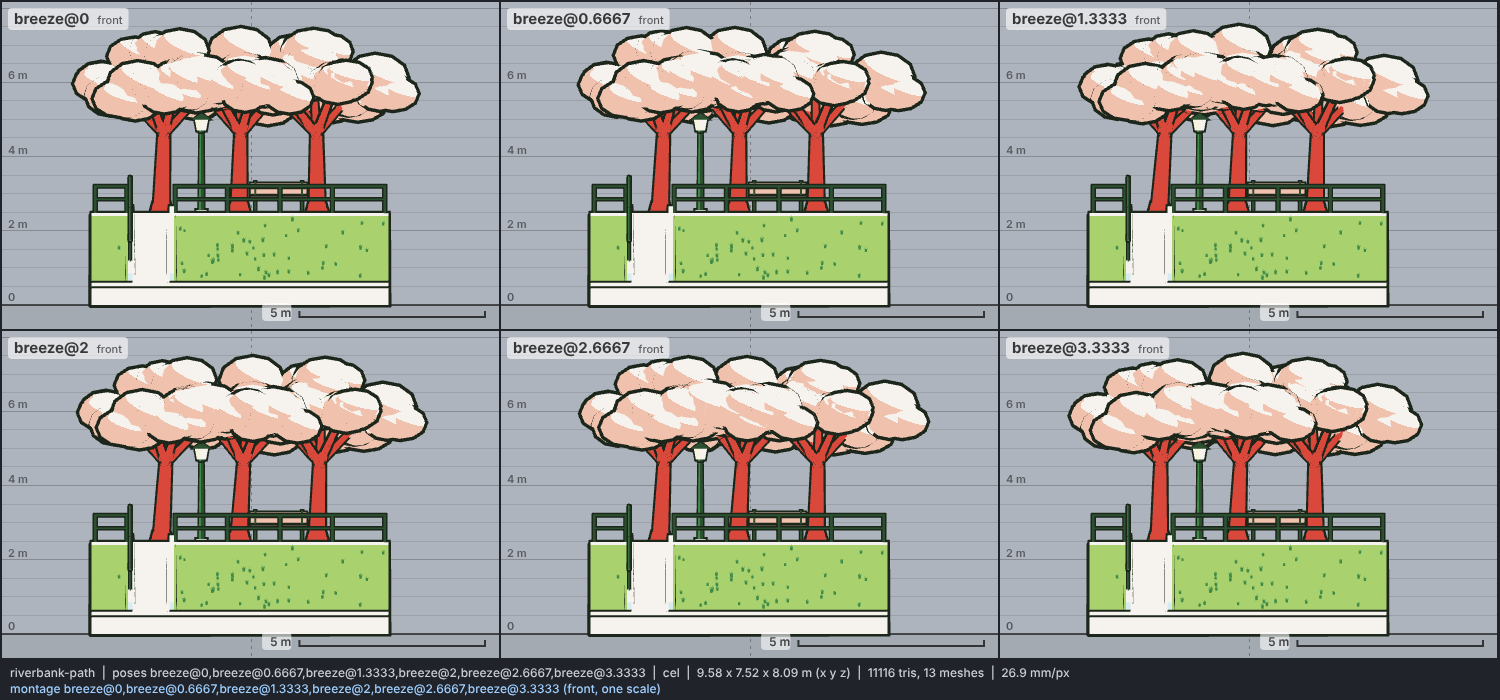
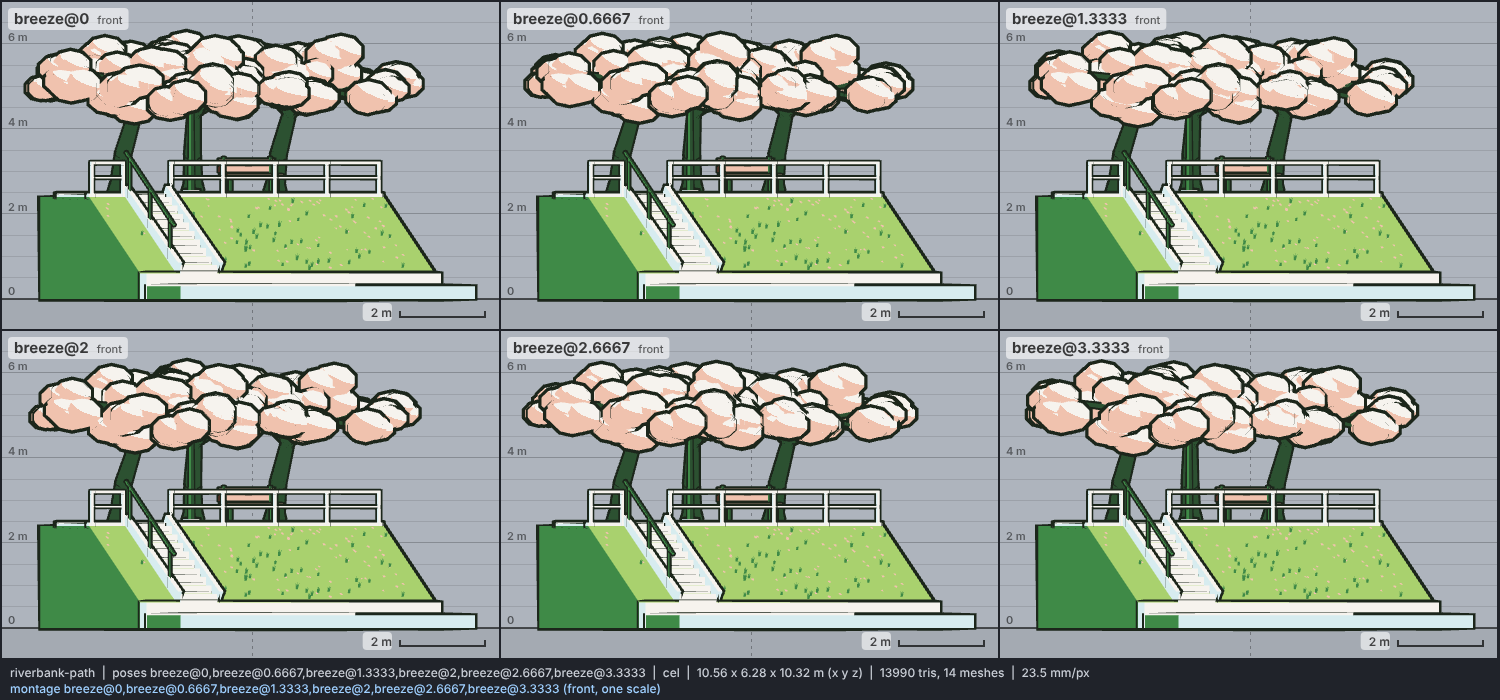
models: riverbank-path, dark bent trunks, low spreading canopy, set turned to the hero
Trunks and limbs are dark (hair) with a two-segment bend; railings go
white. Canopies are flattened domes of many small clusters with gaps,
forking at ~1.95 m, reaching toward the river with drooping tips. Petals
also on the slope and the water. The set is turned 30 deg (option turn)
so the hero camera faces the slope and river; the far wall is gone so
the river reads as a band of water. 14.0k triangles, top 6.23 m.

Claude-Session: https://claude.ai/code/session_01RarBCdt4E1fNHHaUKaW5GL

diff --git a/models/riverbank-path.js b/models/riverbank-path.js
@@ -1,52 +1,58 @@
 // riverbank-path.js - the anime riverside embankment (kawabata / dote): a raised gravel path on top of a grassy bank,
-// a row of cherry trees in bloom along it, a narrow concrete river channel at the foot. Clip: breeze.
-// Contract: harness/lab/README.md. Meters, +Y up, the river side faces +Z (the camera looks across the water, up the
-// slope), the path runs along X, its left is +X, stands on y = 0 (the river bed), centred on x = 0, z = 0 (bbox).
+// a row of cherry trees in bloom along it, a narrow concrete-walled river at the foot. Clip: breeze.
+// Contract: harness/lab/README.md. Meters, +Y up, stands on y = 0 (the river bed), centred on x = 0, z = 0 (bbox).
+// Authored with the river toward +Z and the path along X, then the whole set is turned { turn } deg (default 30) about
+// Y, so the river side faces az 30: the lab's hero camera (az 52) looks across the water and up the slope 22 deg off
+// square, as an establishing shot does, and three4 (az 38) nearly square; turn: 0 gives the plain axis-aligned set.
 //
 // Construction (every part is a three.js primitive transformed into place, merged per material into one indexed
-// soup, so the whole set is ~13 meshes; no hand-wound faces, so the winding is three.js's own):
-//   BANK     one extruded cross-section (river wall top -> slope -> flat crown -> back face) along the length: the
+// soup, so the whole set is 14 meshes; no hand-wound faces, so the winding is three.js's own):
+//   BANK     one extruded cross-section (toe wall top -> slope -> flat crown -> back face) along the length: the
 //            grassy slope is one plane at ~37 deg. Grass tufts (three-blade fans, darker green, no ink) dot the slope.
 //   PATH     a gravel slab 5 cm proud on the crown with pale stone kerbs on both edges and gravel specks (flat dots).
-//            A grass strip behind it holds the trees and the lamp.
-//   RIVER    a concrete revetment: the bank's toe wall and a low far wall, the water between them 30 cm below the
-//            wall tops, with flat pale ripple streaks running along the flow.
+//            A grass strip behind it holds the trees.
+//   RIVER    the bank's concrete toe wall, the water 30 cm below its top, running to the front edge of the set so a
+//            low camera sees the river as a band of water; pale ripple streaks and floating petals on it.
 //   STEPS    a concrete flight down the slope (9 risers of 20 cm, 27 cm treads) between two inked cheek walls, a gap
-//            in the railing at its head and a pipe handrail on its downstream cheek.
-//   RAILING  low guard railing along the slope edge: square posts every ~1.3 m, a top rail and a mid rail.
-//   LAMP     a park lamp on the strip behind the path: pole, crook arm, a hooded lamp; { night } lights it (practical
-//            yellow drawn below the light threshold, so it always reads lit) and lays a lamp pool on the gravel.
+//            in the railing at its head and a pipe handrail on one cheek.
+//   RAILING  low white guard railing along the slope edge: posts every ~1.3 m, a top rail and a mid rail.
+//   LAMP     a park lamp on the path's river edge, crook arm back over the gravel, a hooded lamp tucked under the
+//            blossom (blobs near it are dropped); { night } lights it (practical, drawn below the light threshold, so
+//            it always reads lit) and lays a lamp pool on the gravel.
 //   BENCH    slatted bench on the path's back edge facing the river, dark iron legs.
-//   TREES    stylised somei-yoshino: a short leaning trunk with a root flare, 5-6 limbs fanned out (biased toward the
-//            river, as bank cherries lean over the water) and a crown limb; each limb ends in a cluster of 3-5
-//            squashed blobs (merged spheres; the ink of each blob's rim draws the clumps), wide and umbrella-shaped.
-//            Fallen petals are scattered on the path and the slope (flat fans, no ink). A seeded hash (mulberry32),
-//            so every tree is the same for the same options.
+//   TREES    stylised somei-yoshino, wide, low and spreading: a dark bole bent in two segments leaning toward the
+//            water, forking at ~1.95 m; 6-7 primary limbs (longer on the river side, so the canopy reaches over the path
+//            and the top of the slope) that each split in two; a small cluster of 2-3 flattened blobs at every split tip,
+//            one at each limb's elbow and a low crown of five, so the canopy is a flattened dome (~6 m across, ~2 m
+//            deep) with gaps where the dark limbs show; river-side tips droop. The ink of each blob's rim draws the
+//            clumps. Fallen petals lie on the path, the strip, the slope and the water (flat fans, no ink). A seeded
+//            hash (mulberry32), so every tree is the same for the same options.
 //   BREEZE   pose("breeze@t"), 4 s loop. The wood and blossom soups are deformed in place (no skinning): each vertex
 //            moves by the tree's sway (weight ((y - base) / 4.5 m)^2, so the trunk foot stays planted) plus, for
-//            blossom, its cluster's own rigid bob (twice per loop, its own phase); branch tips sit inside their
-//            clusters, so nothing tears. All frequencies are whole cycles per loop, so t = 0 and t = 4 match.
-// Proportions (real size, base unit the bank height B = 2.4 m): length 8 m; river wall tops 0.6, water 0.3, channel
-// 1.4 wide; slope 2.4 deep for 1.8 rise; crown at 2.4 (= B), path 1.4 wide, grass strip 0.8; railing 0.8 tall
-// (1/3 B); lamp 2.9 m (its hood just under the blossom); bench seat 0.42; trees: trunk 2.2 m to the fork, canopy ~4.5 m
-// across, top ~5.1 m above the crown (2.1 B; the set's top 7.47 m), at the default 3 trees ~2.1 m apart (inset 0.8 m
-// from the ends) so the canopies meet into one pink band over the path.
-// Options: build(THREE, kit, colors, { length, trees, night, height }).
+//            blossom, its cluster's own rigid bob (twice per loop, its own phase); limb tips sit inside their
+//            clusters, so nothing tears. All frequencies are whole cycles per loop, so t = 0 and t = 4 match. The hull
+//            normals stay at rest (small amplitudes).
+// Proportions (real size, base unit the bank height B = 2.4 m): length 8 m; toe wall top 0.6, water 0.3, river 1.6
+// wide; slope 2.4 deep for 1.8 rise; crown at 2.4 (= B), path 1.4 wide, grass strip 0.8; railing 0.8 tall (1/3 B);
+// lamp 2.6 m; bench seat 0.42; trees: fork at 1.95 m, canopy ~6 m across, top ~3.8 m above the crown (1.6 B; the set's
+// top 6.23 m), at the default 3 trees ~2.1 m apart (inset 0.8 m from the ends) so the canopies meet into one band.
+// Options: build(THREE, kit, colors, { length, trees, night, turn, height }).
 //   length  path length in m (default 8): the bank, river, railing, petals stretch; lamp, bench, steps keep their size.
 //   trees   how many cherry trees, evenly spaced (default 3, 0 for a bare bank).
 //   night   true: the lamp is lit (practical), with a pool of lamp light on the path. Same script.
+//   turn    degrees the set is turned about Y (default 30, see above; 0 = river toward +Z).
 //   height  scales the whole set uniformly so its top (the highest blossom) is `height` (default meta.height).
 // Script: meadow (greens and a pale sky; no browns). Two-tone pairs (base / shade): grass line #a9d16e / iris #3f8a47
-// (tufts iris flat); gravel moon #f7f3e1 / sky #d7ecef (specks sky flat); kerbs, revetment and steps sclera #f6f3ee /
-// sky; water sky / iris (ripples sclera flat); blossom sclera / skin #f0c2ae at threshold 0.4, so the tops catch white
-// and the sides and undersides go sakura pink (fallen petals skin flat); trunks and limbs accent #d9483b flat (the
-// warmest dark tone on the script: a skin/accent trunk read as candy stripes beside the pink blossom); bench slats
-// skin / accent; iron (railing, lamp, bench legs, handrail) hair #2c5131 / iris; lamp glass sclera / moon by day,
-// practical #f2c94c flat at night. ink #1c261b.
+// (tufts iris flat); gravel moon #f7f3e1 / sky #d7ecef (specks sky flat); kerbs, toe wall, steps and railing sclera
+// #f6f3ee / sky; water sky / iris (ripples sclera flat); blossom sclera / skin #f0c2ae at threshold 0.4, so the tops
+// catch white and the sides and undersides go sakura pink (fallen petals skin flat); trunks and limbs hair #2c5131
+// flat, the script's darkest tone after ink, so the blossom pops against dark bark; bench slats skin / accent #d9483b;
+// iron (lamp, bench legs, handrail) hair / iris; lamp glass sclera / moon by day, practical #f2c94c flat at night.
+// ink #1c261b.
 
 export const meta = {
   name: "riverbank-path",
-  height: 7.47,
+  height: 6.23,
   script: "meadow",
   colors: {
     grass: "#a9d16e", grassShade: "#3f8a47",
@@ -58,8 +64,9 @@ export const meta = {
     ripple: "#f6f3ee",
     blossom: "#f6f3ee", blossomShade: "#f0c2ae",
     petal: "#f0c2ae",
-    bark: "#d9483b", barkShade: "#d9483b",
+    bark: "#2c5131", barkShade: "#2c5131",
     slat: "#f0c2ae", slatShade: "#d9483b",
+    rail: "#f6f3ee", railShade: "#d7ecef",
     iron: "#2c5131", ironShade: "#3f8a47",
     glass: "#f6f3ee", glassShade: "#f7f3e1",
     glow: "#f2c94c",
@@ -69,7 +76,7 @@ export const meta = {
 
 export function build(THREE, kit, colors = meta.colors, opts = {}) {
   const c = { ...meta.colors, ...colors };
-  const { length = 8, trees = 3, night = false } = opts;
+  const { length = 8, trees = 3, night = false, turn = 30 } = opts;
   const L = Math.max(2, length), NT = Math.max(0, Math.round(trees));
   const TAU = Math.PI * 2;
   const root = new THREE.Group();
@@ -77,6 +84,10 @@ export function build(THREE, kit, colors = meta.colors, opts = {}) {
   const body = new THREE.Group(); // centring offset and the uniform size scale live here
   body.name = "body";
   root.add(body);
+  const set = new THREE.Group(); // the set as authored (river toward +Z, length along X), turned toward the camera
+  set.name = "set";
+  set.rotation.y = (turn * Math.PI) / 180;
+  body.add(set);
   const joints = {};
 
   // ---------- seeded hash ----------
@@ -117,15 +128,15 @@ export function build(THREE, kit, colors = meta.colors, opts = {}) {
     add(key, g, M4().compose(V().addVectors(a, b).multiplyScalar(0.5), q, V(1, 1, 1)), tag);
   }
   // a flat horizontal fan / quad (no ink): decals on the ground
-  function flat(key, pts, y) {
+  function flat(key, pts, y) { // y: a height, or a function (x, z) -> height
     const s = S(key), base = s.pos.length / 3;
-    for (const [x, z] of pts) s.pos.push(x, y, z), s.nrm.push(0, 1, 0), s.tag.push(-1, -1);
+    for (const [x, z] of pts) s.pos.push(x, typeof y === "function" ? y(x, z) : y, z), s.nrm.push(0, 1, 0), s.tag.push(-1, -1);
     for (let i = 1; i + 1 < pts.length; i++) s.idx.push(base, base + i + 1, base + i); // counter-clockwise from above
   }
 
   // ---------- cross-section (z, y), before centring ----------
-  const WALL = 0.6, LIP = 0.45, WATER = 0.3, B = 2.4;
-  const zLipF = 2.6, zLipB = 2.35, zWallF = 0.9, zToe = 0.6, zCrest = -1.8, zPathF = -1.9, zPathB = -3.3, zBack = -4.1;
+  const WALL = 0.6, WATER = 0.3, B = 2.4;
+  const zRiverF = 2.5, zWallF = 0.9, zToe = 0.6, zCrest = -1.8, zPathF = -1.9, zPathB = -3.3, zBack = -4.1;
   const PATH_Y = B + 0.05;
   const x0 = -L / 2, x1 = L / 2;
   const stepX = Math.max(x0 + 1.0, -L * 0.3), stepW = 1.0, nStep = 9; // the flight down the slope
@@ -169,10 +180,9 @@ export function build(THREE, kit, colors = meta.colors, opts = {}) {
 
   // RIVER: toe wall, far lip, water, ripples
   box("stone", 0, WALL / 2, (zToe + zWallF) / 2, L, WALL, zWallF - zToe);
-  box("stone", 0, LIP / 2, (zLipB + zLipF) / 2, L, LIP, zLipF - zLipB);
-  box("water", 0, WATER / 2, (zWallF + zLipB) / 2, L, WATER, zLipB - zWallF);
+  box("water", 0, WATER / 2, (zWallF + zRiverF) / 2, L, WATER, zRiverF - zWallF);
   for (let i = 0, n = Math.round(L * 2.2); i < n; i++) {
-    const x = rr(x0 + 0.5, x1 - 0.9), z = rr(zWallF + 0.15, zLipB - 0.15), l = rr(0.35, 0.8), w = rr(0.025, 0.04);
+    const x = rr(x0 + 0.5, x1 - 0.9), z = rr(zWallF + 0.15, zRiverF - 0.15), l = rr(0.35, 0.8), w = rr(0.025, 0.04);
     flat("ripple", [[x, z - w], [x + l, z - w * 0.4], [x + l * 1.08, z], [x + l, z + w * 0.4], [x, z + w]], WATER + 0.003);
   }
 
@@ -208,20 +218,20 @@ export function build(THREE, kit, colors = meta.colors, opts = {}) {
     const runs = [[x0 + 0.1, gap0], [gap1, x1 - 0.1]].filter(([a, b]) => b - a > 0.3);
     for (const [a, b] of runs) {
       const n = Math.max(1, Math.round((b - a) / 1.3));
-      for (let i = 0; i <= n; i++) box("iron", a + ((b - a) * i) / n, B + 0.4, zr, 0.07, 0.8, 0.07);
-      box("iron", (a + b) / 2, B + 0.8, zr, b - a + 0.06, 0.06, 0.08);
-      box("iron", (a + b) / 2, B + 0.45, zr, b - a, 0.04, 0.04);
+      for (let i = 0; i <= n; i++) box("rail", a + ((b - a) * i) / n, B + 0.4, zr, 0.07, 0.8, 0.07);
+      box("rail", (a + b) / 2, B + 0.8, zr, b - a + 0.06, 0.06, 0.08);
+      box("rail", (a + b) / 2, B + 0.45, zr, b - a, 0.04, 0.04);
     }
   }
 
-  // LAMP: on the strip behind the path, between the first two trees
-  const lampX = -L * 0.13, lampZ = zPathB - 0.25;
+  // LAMP: on the path's river edge just inside the railing, its crook arm reaching back over the gravel
+  const lampX = -L * 0.13, lampZ = zPathF - 0.22;
   {
     box("stone", lampX, B + 0.08, lampZ, 0.28, 0.16, 0.28);
-    rod("iron", V(lampX, B + 0.1, lampZ), V(lampX, B + 2.45, lampZ), 0.075, 0.05, 8);
-    rod("iron", V(lampX, B + 2.4, lampZ), V(lampX, B + 2.7, lampZ + 0.25), 0.04, 0.04, 6);
-    rod("iron", V(lampX, B + 2.7, lampZ + 0.24), V(lampX, B + 2.68, lampZ + 0.55), 0.04, 0.04, 6);
-    const hx = lampX, hy = B + 2.53, hz = lampZ + 0.55;
+    rod("iron", V(lampX, B + 0.1, lampZ), V(lampX, B + 2.15, lampZ), 0.075, 0.05, 8);
+    rod("iron", V(lampX, B + 2.1, lampZ), V(lampX, B + 2.4, lampZ - 0.25), 0.04, 0.04, 6);
+    rod("iron", V(lampX, B + 2.4, lampZ - 0.24), V(lampX, B + 2.38, lampZ - 0.55), 0.04, 0.04, 6);
+    const hx = lampX, hy = B + 2.23, hz = lampZ - 0.55;
     add("iron", new THREE.ConeGeometry(0.28, 0.18, 10), M4().makeTranslation(hx, hy + 0.15, hz));
     add(night ? "glow" : "glass", new THREE.CylinderGeometry(0.19, 0.13, 0.3, 10), M4().makeTranslation(hx, hy - 0.08, hz));
     add("iron", new THREE.CylinderGeometry(0.06, 0.06, 0.05, 8), M4().makeTranslation(hx, hy - 0.25, hz));
@@ -230,7 +240,7 @@ export function build(THREE, kit, colors = meta.colors, opts = {}) {
       const pts = [];
       for (let k = 0; k < 24; k++) {
         const a = (k * TAU) / 24;
-        pts.push([hx + 2.0 * Math.cos(a), Math.min(zPathF - 0.1, Math.max(zPathB + 0.1, hz + 0.25 + 0.7 * Math.sin(a)))]);
+        pts.push([hx + 2.0 * Math.cos(a), Math.min(zPathF - 0.1, Math.max(zPathB + 0.1, hz + 0.65 * Math.sin(a)))]);
       }
       flat("pool", pts, PATH_Y + 0.004);
     }
@@ -250,47 +260,61 @@ export function build(THREE, kit, colors = meta.colors, opts = {}) {
     for (const y of [B + 0.66, B + 0.82]) box("slat", bx, y, bz - 0.22, wB, 0.12, 0.035);
   }
 
-  // TREES
-  const TREE = []; // per tree: base y and sway phase
+  // TREES: a bent bole, then 6-7 primary limbs (biased toward the river) that each split in two; every split tip and
+  // a few points along the limbs carry a small cluster of 2-3 flattened blobs, so the canopy is a low, wide dome with
+  // gaps where dark limbs show. Outer clusters on the river side droop. Blobs too close to the lamp head are dropped.
+  const TREE = []; // per tree: base y and sway phases
   const CL = []; // per blossom cluster: phase
+  const LAMP_HEAD = V(lampX, B + 2.2, lampZ - 0.55);
+  function cluster(t, c, n, rMin, rMax) {
+    const cl = CL.length;
+    CL.push({ ph: rr(0, 1) });
+    for (let k = 0; k < n; k++) {
+      const r = rr(rMin, rMax);
+      const p = k === 0 ? c.clone() : V(c.x + rr(-0.4, 0.4), c.y + rr(-0.12, 0.15), c.z + rr(-0.35, 0.35));
+      if (p.distanceTo(LAMP_HEAD) < r + 0.45) continue;
+      const q = new THREE.Quaternion().setFromEuler(new THREE.Euler(0, rr(0, TAU), 0));
+      add("blossom", new THREE.SphereGeometry(1, 7, 5), M4().compose(p, q, V(r * rr(1.1, 1.3), r * 0.74, r)), [t, cl]);
+    }
+  }
   for (let t = 0; t < NT; t++) {
     const tx = x0 + 0.8 + ((L - 1.6) * (t + 0.5)) / NT + rr(-0.12, 0.12), tz = zBack + 0.45, ty = B;
     TREE.push({ y: ty, ph: rr(0, 1), ph2: rr(0, 1) });
-    const tag = (cl = -1) => [t, cl];
-    // trunk: root flare, a leaning bole to the fork
-    const fork = V(tx + rr(-0.15, 0.15), ty + 2.2, tz + 0.35);
-    rod("bark", V(tx, ty - 0.05, tz), V(tx, ty + 0.35, tz + 0.03), 0.34, 0.22, 8, tag());
-    rod("bark", V(tx, ty + 0.2, tz + 0.02), fork, 0.21, 0.15, 8, tag());
-    const limbs = [];
-    const nl = 5 + (rand() < 0.5 ? 1 : 0);
+    const tag = [t, -1];
+    // trunk: root flare and a bole bent in two segments, leaning toward the river
+    const lean = rr(-0.25, 0.25);
+    const knee = V(tx + lean * 0.3, ty + 1.0, tz + 0.12);
+    const fork = V(tx + lean, ty + 1.95, tz + 0.5);
+    rod("bark", V(tx, ty - 0.05, tz), V(tx, ty + 0.3, tz + 0.02), 0.32, 0.21, 8, tag);
+    rod("bark", V(tx, ty + 0.2, tz + 0.01), knee, 0.21, 0.18, 8, tag);
+    rod("bark", knee, fork, 0.18, 0.14, 8, tag);
+    const nl = 6 + (rand() < 0.5 ? 1 : 0);
     for (let i = 0; i < nl; i++) {
-      // azimuth around +Z (the river side), spread wide along the path
-      const az = -Math.PI * 0.95 + (Math.PI * 1.9 * (i + rr(0.2, 0.8))) / nl;
-      const front = Math.cos(az); // +1 toward the river
-      const reach = rr(1.4, 1.8) * (front > 0 ? 1.15 : 0.85), el = rr(0.42, 0.62);
-      const tip = V(fork.x + Math.sin(az) * reach * 0.95, fork.y + reach * Math.sin(el) + 0.4, fork.z + Math.cos(az) * reach * 0.85);
-      limbs.push(tip);
-    }
-    limbs.push(V(fork.x + rr(-0.2, 0.2), fork.y + 2.1, fork.z + 0.2)); // crown
-    for (const tip of limbs) {
-      const mid = V().lerpVectors(fork, tip, 0.5).add(V(0, 0.25, 0));
-      rod("bark", fork, mid, 0.11, 0.075, 6, tag());
-      rod("bark", mid, tip, 0.075, 0.04, 6, tag());
-      const cl = CL.length;
-      CL.push({ ph: rr(0, 1) });
-      const nb = 3 + Math.floor(rand() * 3);
-      for (let k = 0; k < nb; k++) {
-        const r = rr(0.5, 0.78) * (k === 0 ? 1.15 : 1);
-        const p = k === 0 ? V().copy(tip).add(V(0, 0.15, 0)) : V(tip.x + rr(-0.7, 0.7), tip.y + rr(-0.35, 0.3), tip.z + rr(-0.55, 0.55));
-        const g = new THREE.SphereGeometry(1, 9, 6);
-        const q = new THREE.Quaternion().setFromEuler(new THREE.Euler(0, rr(0, TAU), 0));
-        add("blossom", g, M4().compose(p, q, V(r * rr(1.0, 1.25), r * 0.72, r)), tag(cl));
+      const az = -Math.PI * 0.9 + (Math.PI * 1.8 * (i + rr(0.25, 0.75))) / nl; // around +Z, the river side
+      const front = Math.cos(az);
+      const reach = rr(2.3, 2.8) * (front > 0 ? 1.0 + 0.25 * front : 0.75);
+      const dir = (a, d) => V(Math.sin(a) * d * 0.9, 0, Math.cos(a) * d);
+      const mid = V().copy(fork).add(dir(az, reach * 0.45)).add(V(0, rr(0.55, 0.85), 0));
+      rod("bark", fork, mid, 0.1, 0.07, 6, tag);
+      cluster(t, V().copy(mid).add(V(0, 0.3, 0)), 1, 0.4, 0.5);
+      for (const da of [-0.38, 0.38]) {
+        const droop = front > 0.3 ? rr(0.15, 0.55) * front : rr(-0.1, 0.15);
+        const tip = V().copy(fork).add(dir(az + da + rr(-0.1, 0.1), reach * rr(0.85, 1.05))).add(V(0, mid.y - fork.y + rr(-0.05, 0.3) - droop, 0));
+        rod("bark", mid, tip, 0.06, 0.03, 5, tag);
+        cluster(t, tip, 3, 0.32, 0.5);
       }
+    }
+    // crown: a low dome over the fork
+    for (let k = 0; k < 5; k++) {
+      const a = (k * TAU) / 5 + rr(0, 1);
+      const c = V(fork.x + Math.sin(a) * 1.0, fork.y + rr(1.15, 1.45), fork.z + Math.cos(a) * 1.0 + 0.4);
+      rod("bark", fork, V().lerpVectors(fork, c, 0.8), 0.08, 0.04, 5, tag);
+      cluster(t, c, 2, 0.4, 0.52);
     }
     const j = new THREE.Group();
     j.name = `tree${t}`;
     j.position.set(tx, ty, tz);
-    body.add(j);
+    set.add(j);
     joints[j.name] = j;
   }
 
@@ -303,9 +327,18 @@ export function build(THREE, kit, colors = meta.colors, opts = {}) {
     flat("petal", pts, y);
   }
   if (NT > 0) {
-    for (let i = 0, n = Math.round(L * 22); i < n; i++)
+    for (let i = 0, n = Math.round(L * 12); i < n; i++)
       petal(rr(x0 + 0.1, x1 - 0.15), rr(zPathB + 0.1, zPathF - 0.1), PATH_Y + 0.003, rr(0.05, 0.08), rr(0, TAU));
     for (let i = 0, n = Math.round(L * 6); i < n; i++) petal(rr(x0 + 0.1, x1 - 0.15), rr(zBack + 0.1, zPathB - 0.12), B + 0.003, rr(0.05, 0.08), rr(0, TAU));
+    // the slope (lying on it, thinning toward the foot) and the water
+    for (let i = 0, n = Math.round(L * 12); i < n; i++) {
+      const z = zCrest + 0.1 + (zToe - zCrest - 0.25) * rand() ** 1.6;
+      const x = rr(x0 + 0.1, x1 - 0.15);
+      if (Math.abs(x - stepX) < stepW / 2 + 0.2) continue;
+      petal(x, z, (px, pz) => slopeY(pz) + 0.006, rr(0.06, 0.09), rr(0, TAU));
+    }
+    for (let i = 0, n = Math.round(L * 5); i < n; i++)
+      petal(rr(x0 + 0.1, x1 - 0.15), rr(zWallF + 0.08, zRiverF - 0.1), WATER + 0.005, rr(0.06, 0.09), rr(0, TAU));
   }
 
   // ---------- meshes ----------
@@ -322,6 +355,7 @@ export function build(THREE, kit, colors = meta.colors, opts = {}) {
     petal: [c.petal, c.petal, 0, false],
     bark: [c.bark, c.barkShade, 0.2, 3],
     slat: [c.slat, c.slatShade, 0.2, 2.5],
+    rail: [c.rail, c.railShade, 0.2, 2],
     iron: [c.iron, c.ironShade, 0.2, 2],
     glass: [c.glass, c.glassShade, 0.1, 2.5],
     glow: [c.glow, c.glow, -0.25, 2.5],
@@ -336,7 +370,7 @@ export function build(THREE, kit, colors = meta.colors, opts = {}) {
     g.setIndex(s.idx);
     const mesh = px === false ? kit.toon(g, base, shade, { threshold, outline: false }) : kit.toon(g, base, shade, { threshold, px });
     mesh.name = key;
-    body.add(mesh);
+    set.add(mesh);
     if (key === "bark" || key === "blossom") sway.push({ g, rest: Float32Array.from(s.pos), tag: Int32Array.from(s.tag), blossom: key === "blossom" });
   }
   // cluster centres (rest) for rigid blossom bob weights
@@ -348,7 +382,8 @@ export function build(THREE, kit, colors = meta.colors, opts = {}) {
   for (const e of clC) if (e[3]) (e[0] /= e[3]), (e[1] /= e[3]), (e[2] /= e[3]);
 
   // centre on the bbox (x, z) and scale to height
-  const bb = new THREE.Box3().setFromObject(body);
+  body.updateMatrixWorld(true);
+  const bb = new THREE.Box3().setFromObject(body, true);
   const natural = bb.max.y;
   const { height = natural } = opts;
   const sc = height / natural;
